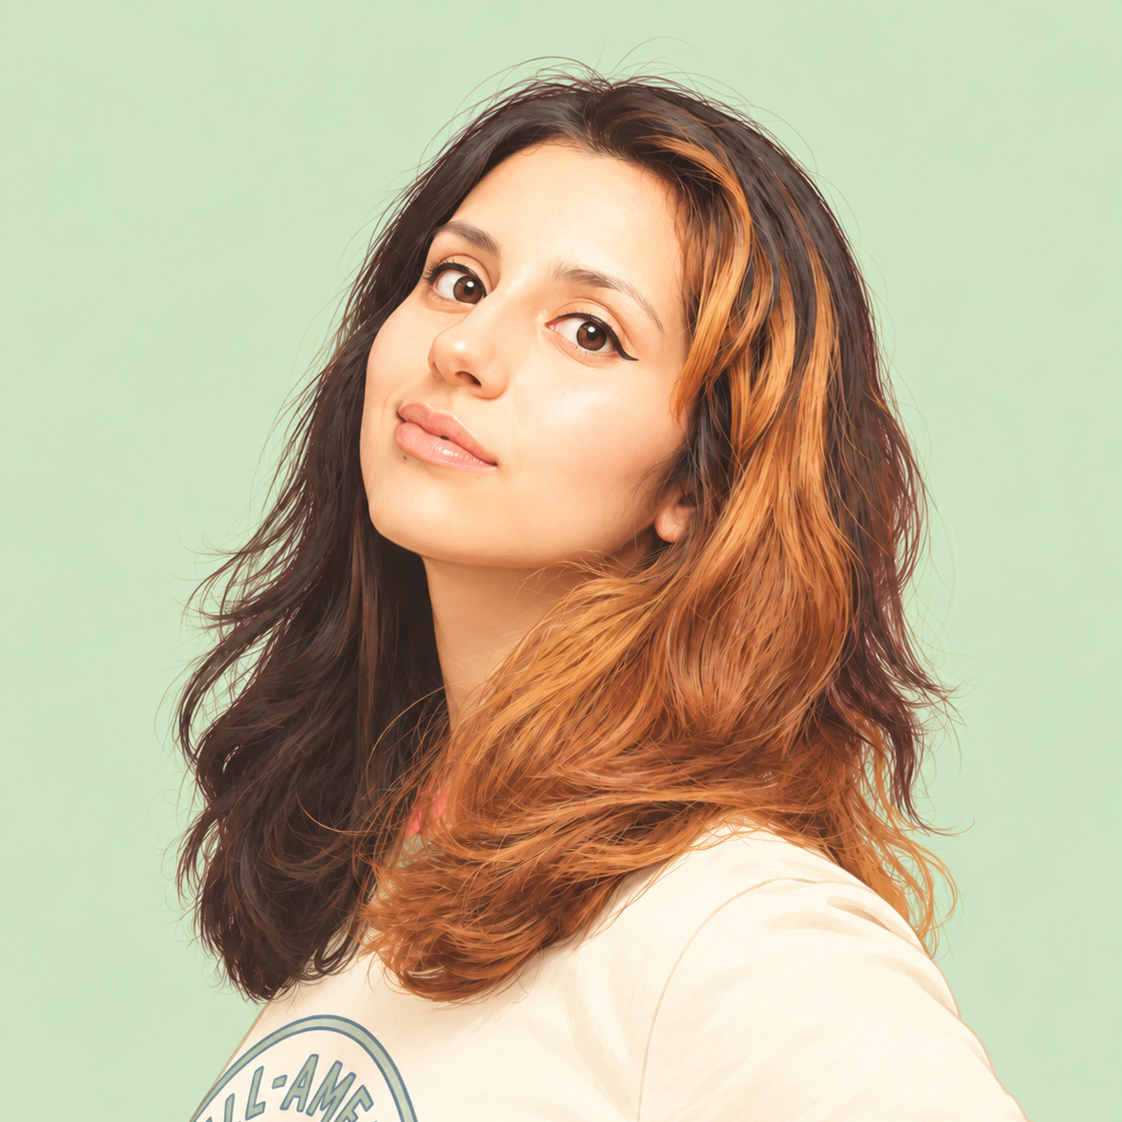
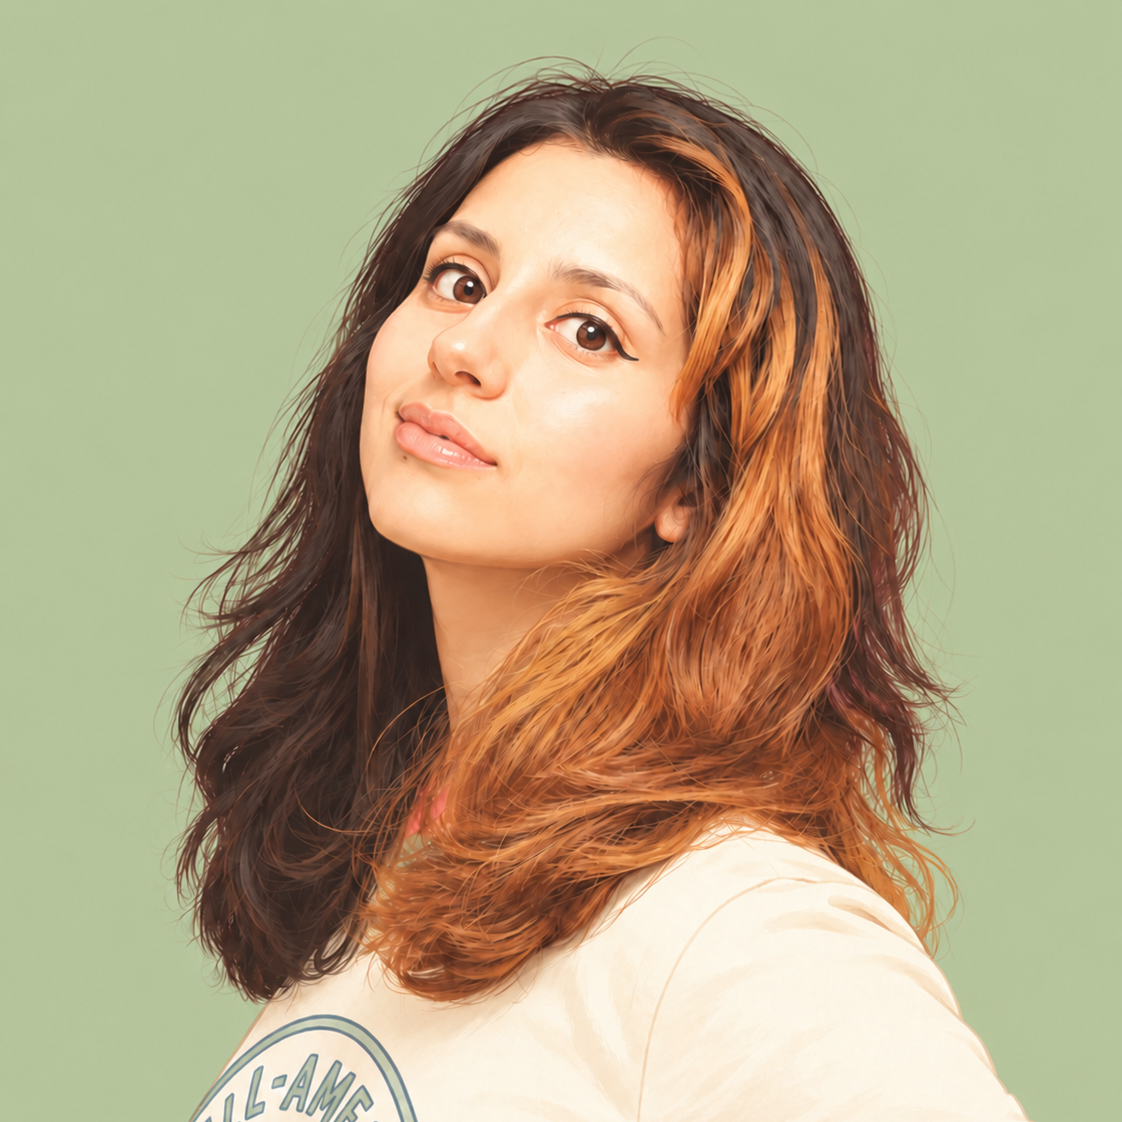
changed some coulours

diff --git a/index.html b/index.html
@@ -146,7 +146,7 @@
       </div>
       <div class="baker-copy">
         <p class="baker-bio">
-          Meet the baker behind *The Sweet Gathering! With a passion for homemade treats and bringing people together, she pours love and creativity into every bake. Her mission? Spreading a little sweetness, one delicious creation at a time!</p>
+          Meet the baker behind The Sweet Gathering! With a passion for homemade treats and bringing people together, she pours love and creativity into every bake. Her mission? Spreading a little sweetness, one delicious creation at a time!</p>
         <!-- <p class="baker-meta">Known for: Pistache Blondies</p> -->
       </div>
     </div>

diff --git a/css/styles.css b/css/styles.css
@@ -2,7 +2,7 @@
   --paper: #f7efdc;
   --paper-edge: #efe4c8;
   --ink: #3b2a2e;
-  --jam: #a8324a;
+  --jam: #d31c58;
   --sage: #6e7f5c;
   --gold: #c9a227;
   --line: #d8c9a8;
@@ -48,7 +48,7 @@ body {
   right: 0;
   z-index: 20;
   width: 100%;
-  background: rgba(150, 170, 136, 0.95);
+  background: #b6c59c;
   backdrop-filter: blur(8px);
   border-bottom: 1px solid rgba(59, 42, 46, 0.12);
 }
@@ -268,7 +268,7 @@ body {
   font-size: 0.8rem;
   text-decoration: none;
   color: var(--paper);
-  background: var(--jam);
+  background: #d31c58;
   padding: 0.85em 1.8em;
   border-radius: 2px;
   border: 1px solid var(--ink);
